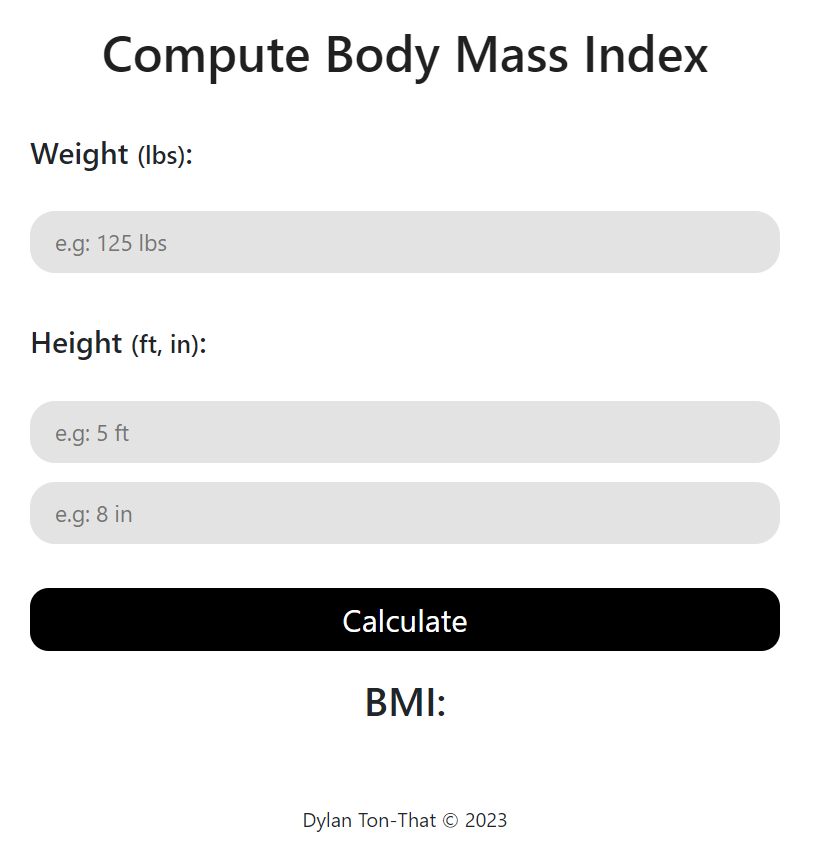
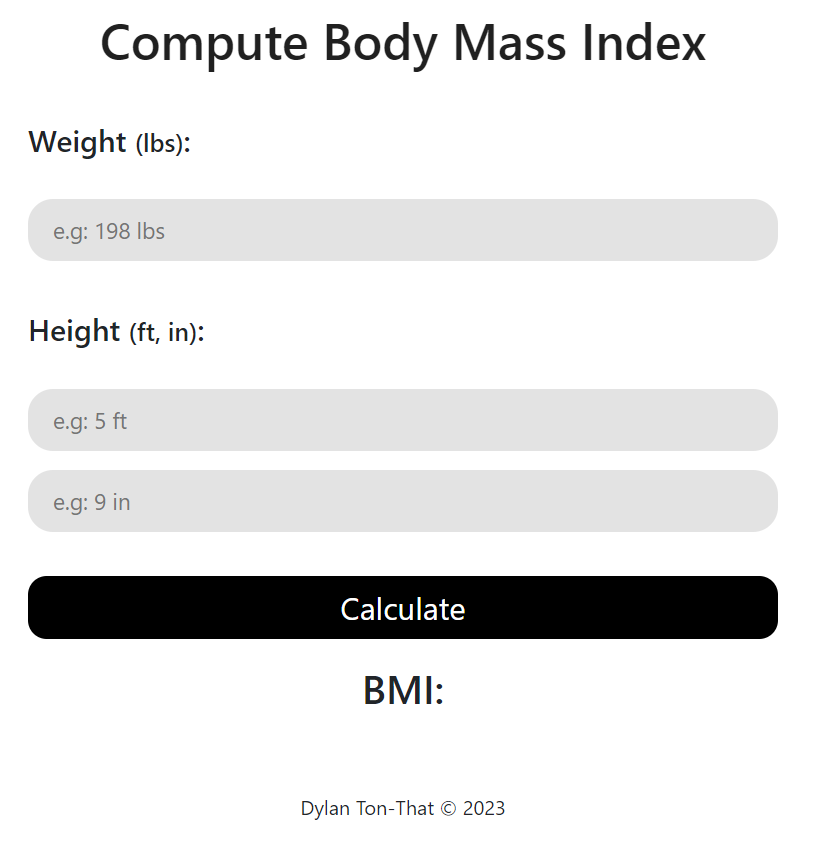
new media

diff --git a/src/App.js b/src/App.js
@@ -65,7 +65,7 @@ function App() {
         <input
           value={weight}
           type="text"
-          placeholder="e.g: 125 lbs"
+          placeholder="e.g: 198 lbs"
           onChange={(e) => setWeight(e.target.value)}
         />
 
